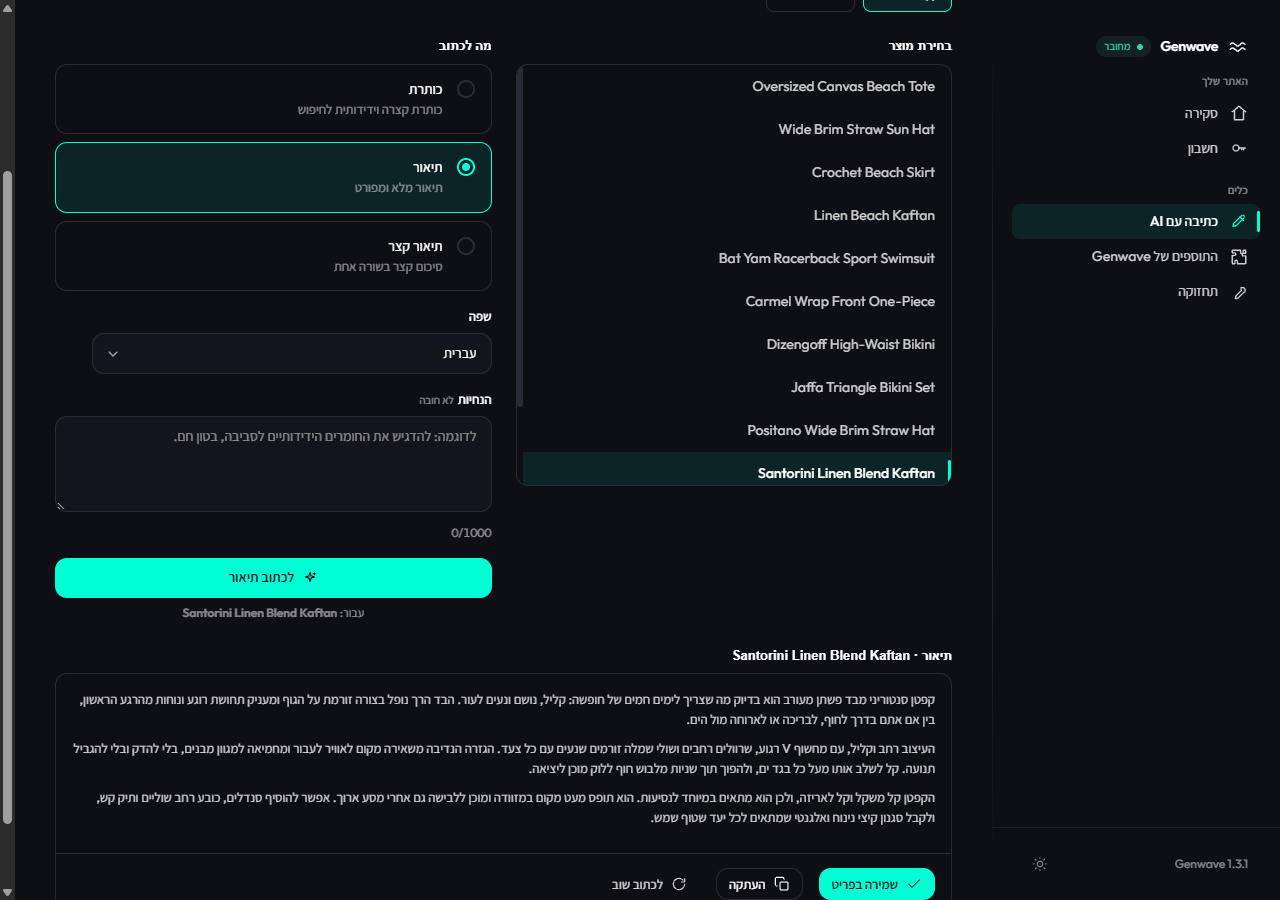
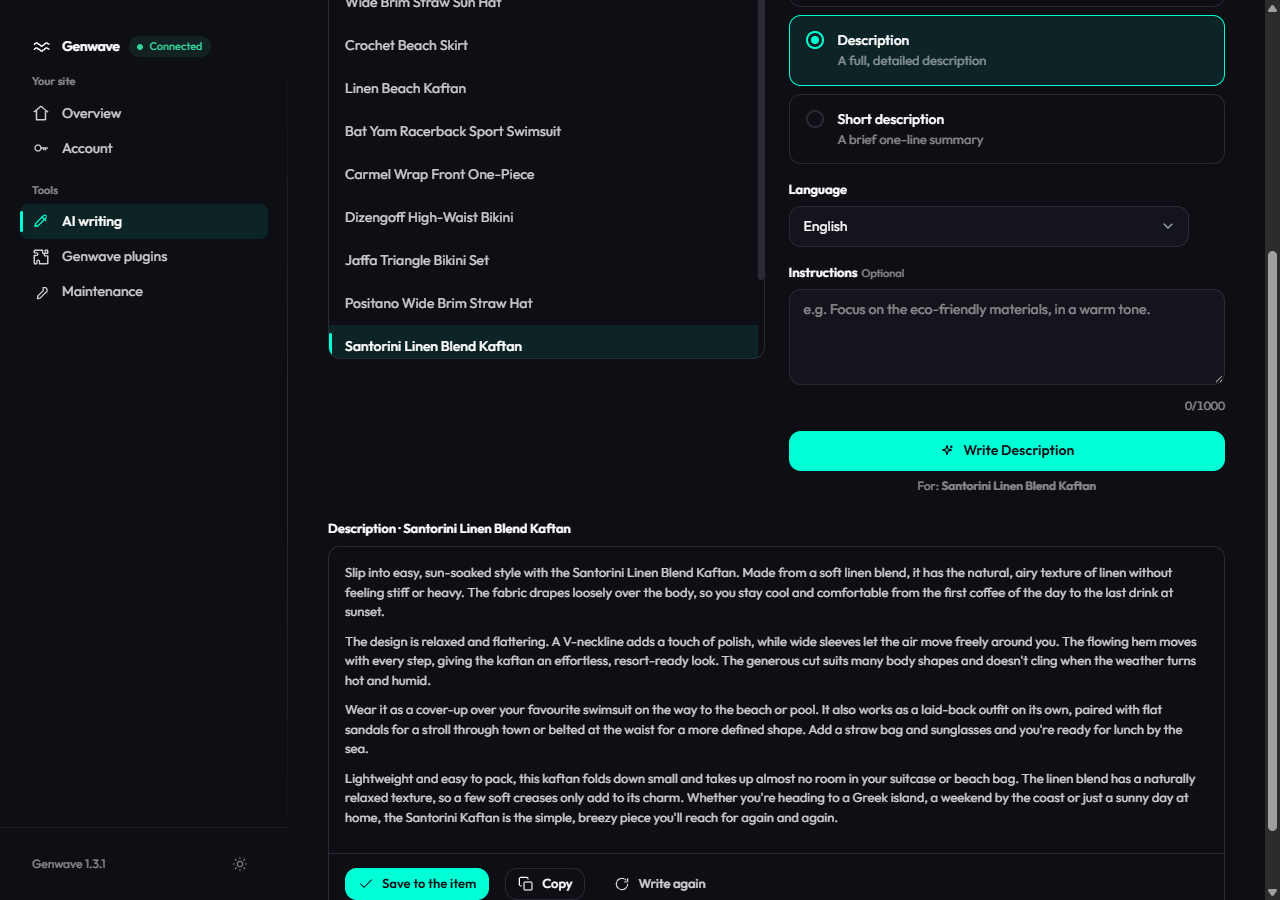
WordPress.org screenshots 1-5 retaken in English

diff --git a/CHANGELOG.md b/CHANGELOG.md
@@ -86,10 +86,10 @@ changelog for WordPress.org lives in `readme.txt` and is written at release time
   screenshot caption 4 matches the Plugins screen. Listing assets now live in
   `.wordpress-org/` (banners, icons and the current screenshots copied from
   SVN so the deploy's asset sync deletes nothing).
-- New screenshots 1-5 (1280x900, taken on a hosted test site running this
-  build, Hebrew admin: the site has no per-user language switch): Account,
-  Overview, AI writing with a generated description (not saved), Genwave
-  plugins, and Genwave Agent with a finished product-images report. The license
+- New screenshots 1-5 in English (1280x900, taken on a hosted test site
+  running this build with the admin temporarily in English): Account, Overview,
+  AI writing with a generated description (not saved), Genwave plugins, and
+  Genwave Agent answering a read-only question about the store. The license
   key on the Account screen is masked. Captions 1, 3 and 5 updated; caption 5
   says Genwave Agent is a separate plugin added from the Genwave account.
 - **WordPress.org readme rewritten to match the 1.3.0 code** (readme only, no
